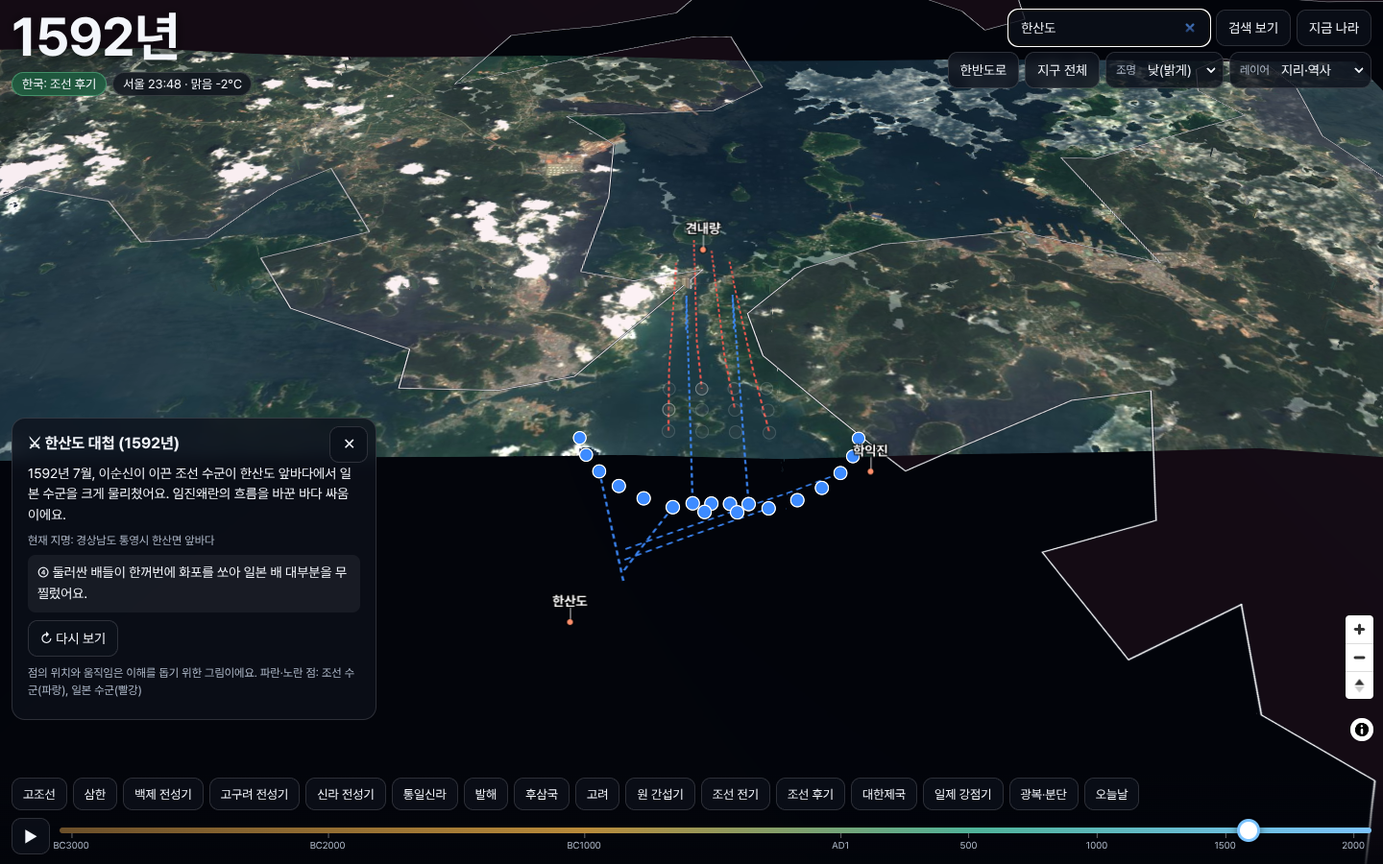
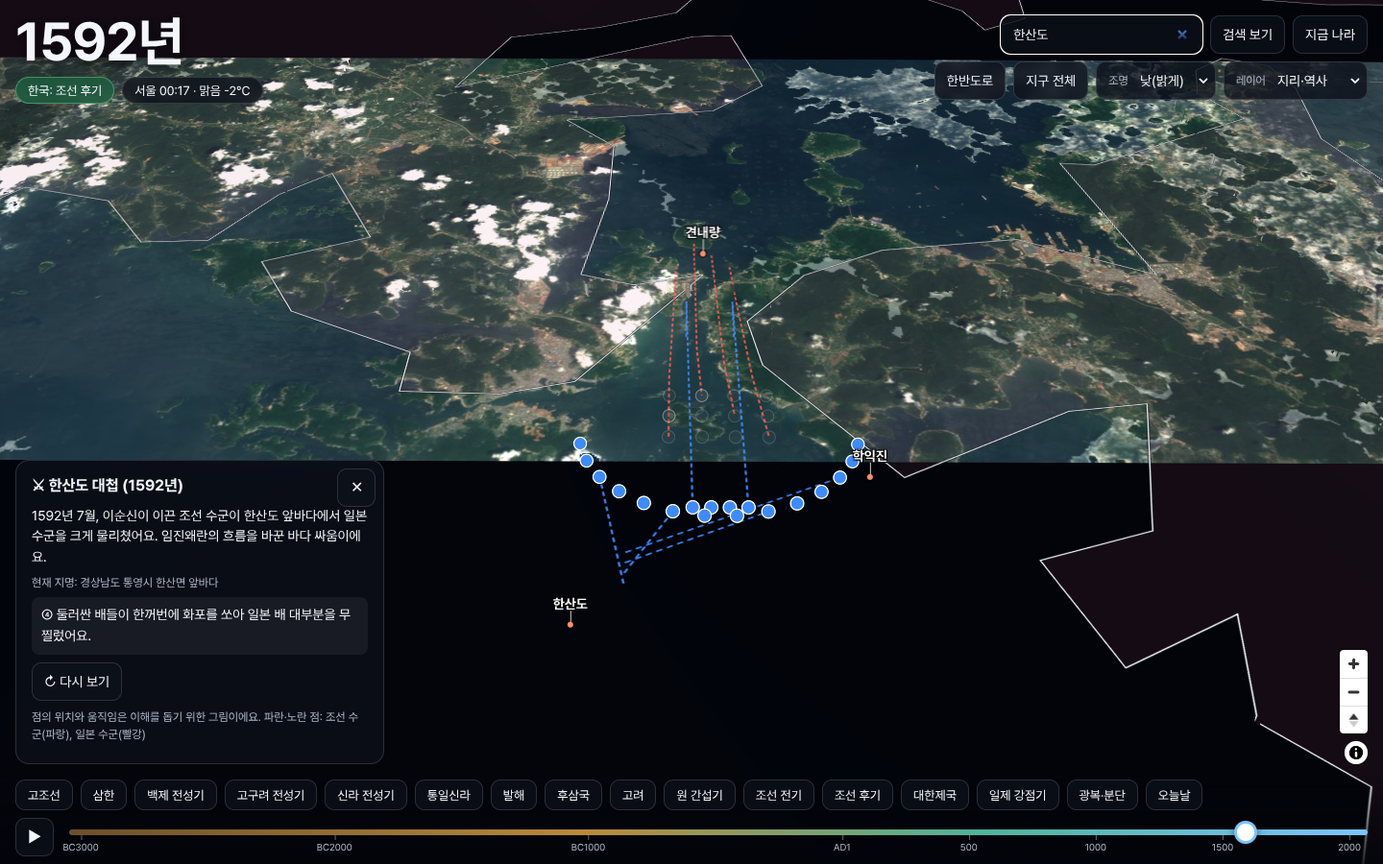
지도 위 버튼·패널을 8px 격자로 정렬하고 정렬 검사 테스트 추가
- 바깥 여백 16, 간격 8, 버튼 높이 40·시대 버튼 32·배지 28, 안전 영역 반영
- 패널·확대 버튼·검색 목록 위치를 HUD 실제 크기로 계산해 겹침 제거
- 가로 휴대폰(세로 500px 이하)도 메뉴 접기
- e2e/layout.spec.ts: 5개 화면 크기에서 겹침·격자·화면 밖 요소 검사
- 개선 전후 화면, D-021

diff --git a/src/style.css b/src/style.css
@@ -1,4 +1,5 @@
-:root { --panel: rgba(12, 16, 26, 0.78); --line: rgba(255, 255, 255, 0.14); --accent: #7cc4ff; --text: #f3f6fb; --muted: #aeb8c8; }
+:root { --g: 8px; --m: 16px; --ctl: 40px; --sl: env(safe-area-inset-left, 0px); --sr: env(safe-area-inset-right, 0px); --st: env(safe-area-inset-top, 0px); --sb: env(safe-area-inset-bottom, 0px);
+  --bottom-h: 120px; --top-h: 140px; --tr-h: 112px; --ctrl-h: 120px; --panel: rgba(12, 16, 26, 0.78); --line: rgba(255, 255, 255, 0.14); --accent: #7cc4ff; --text: #f3f6fb; --muted: #aeb8c8; }
 * { box-sizing: border-box; }
 html, body { margin: 0; height: 100%; overflow: hidden; background: #02040a; color: var(--text);
   font-family: 'Pretendard', 'Apple SD Gothic Neo', 'Noto Sans KR', 'Malgun Gothic', system-ui, sans-serif; -webkit-text-size-adjust: 100%; }
@@ -22,26 +23,27 @@ html, body { margin: 0; height: 100%; overflow: hidden; background: #02040a; col
 .lbl.tag .txt { font-size: 14px; color: #fff; }
 .lbl.tag .dot { background: #ff8f6b; }
 
-#hud { position: fixed; top: 0; left: 0; right: 0; z-index: 5; display: flex; justify-content: space-between; align-items: flex-start; padding: calc(10px + env(safe-area-inset-top)) 12px 0; pointer-events: none; gap: 10px; }
-#hud > * { pointer-events: auto; }
+#hud { position: fixed; top: 0; left: 0; right: 0; z-index: 5; display: flex; justify-content: space-between; align-items: flex-start; padding: calc(var(--m) + var(--st)) calc(var(--m) + var(--sr)) 0 calc(var(--m) + var(--sl)); pointer-events: none; gap: calc(2 * var(--g)); }
+#hud, #hud-tl, #hud-tr { pointer-events: none; }
+#hud-tl > *, #hud-tr > *, #menu-btn { pointer-events: auto; }
 #hud-tl { max-width: 46vw; }
-#year { font-size: clamp(30px, 5.2vw, 56px); font-weight: 800; letter-spacing: -1px; text-shadow: 0 2px 12px rgba(0,0,0,.7); line-height: 1.05; }
-.badges { display: flex; flex-wrap: wrap; gap: 6px; margin-top: 6px; }
-.badge { background: var(--panel); border: 1px solid var(--line); border-radius: 999px; padding: 4px 10px; font-size: 13px; backdrop-filter: blur(6px); }
+#year { font-size: clamp(32px, 5.2vw, 56px); font-weight: 800; letter-spacing: -1px; text-shadow: 0 2px 12px rgba(0,0,0,.7); line-height: 1; width: max-content; }
+.badges { display: flex; flex-wrap: wrap; gap: var(--g); margin-top: var(--g); }
+.badge { display: inline-flex; align-items: center; height: 28px; background: var(--panel); border: 1px solid var(--line); border-radius: 999px; padding: 0 12px; font-size: 13px; line-height: 1; white-space: nowrap; backdrop-filter: blur(6px); }
 .badge.era { background: rgba(28, 92, 62, .85); border-color: rgba(120, 230, 170, .4); }
-.note { margin-top: 6px; font-size: 13px; color: var(--muted); max-width: 360px; text-shadow: 0 1px 4px #000; }
-#hud-tr { display: flex; flex-direction: column; gap: 6px; align-items: flex-end; }
-.row { display: flex; gap: 6px; flex-wrap: wrap; justify-content: flex-end; }
-.btn { background: var(--panel); color: var(--text); border: 1px solid var(--line); border-radius: 10px; padding: 8px 12px; font-size: 14px; cursor: pointer; backdrop-filter: blur(6px); font-family: inherit; min-height: 38px; }
+.note { margin-top: var(--g); font-size: 13px; color: var(--muted); max-width: 360px; text-shadow: 0 1px 4px #000; }
+#hud-tr { display: flex; flex-direction: column; gap: var(--g); align-items: flex-end; }
+.row { display: flex; gap: var(--g); flex-wrap: wrap; justify-content: flex-end; }
+.btn { background: var(--panel); color: var(--text); border: 1px solid var(--line); border-radius: 10px; padding: 0 12px; font-size: 14px; line-height: 1; cursor: pointer; backdrop-filter: blur(6px); font-family: inherit; height: var(--ctl); display: inline-flex; align-items: center; justify-content: center; }
 .btn:hover { border-color: rgba(124,196,255,.6); }
 .btn[aria-pressed="true"], .btn.on { background: rgba(40, 110, 190, .85); border-color: var(--accent); }
-.btn.icon { width: 40px; padding: 0; font-size: 16px; }
-.sel { display: inline-flex; align-items: center; gap: 6px; background: var(--panel); border: 1px solid var(--line); border-radius: 10px; padding: 0 4px 0 10px; font-size: 12px; color: var(--muted); min-height: 38px; }
-.sel select { background: transparent; color: var(--text); border: 0; font-size: 14px; font-family: inherit; padding: 8px 2px; cursor: pointer; }
+.btn.icon { width: var(--ctl); padding: 0; font-size: 16px; }
+.sel { display: inline-flex; align-items: center; gap: 6px; background: var(--panel); border: 1px solid var(--line); border-radius: 10px; padding: 0 4px 0 12px; font-size: 12px; color: var(--muted); height: var(--ctl); }
+.sel select { background: transparent; color: var(--text); border: 0; font-size: 14px; font-family: inherit; padding: 0 2px; height: 100%; cursor: pointer; }
 .sel select option { background: #111827; }
 .search-wrap { position: relative; }
-#search { width: 210px; background: var(--panel); color: var(--text); border: 1px solid var(--line); border-radius: 10px; padding: 8px 12px; font-size: 14px; min-height: 38px; font-family: inherit; }
-.dropdown { position: absolute; top: 44px; right: 0; width: 300px; max-height: 50vh; overflow: auto; background: rgba(12,16,26,.95); border: 1px solid var(--line); border-radius: 10px; z-index: 20; }
+#search { width: 210px; background: var(--panel); color: var(--text); border: 1px solid var(--line); border-radius: 10px; padding: 0 12px; font-size: 14px; height: var(--ctl); font-family: inherit; display: block; }
+.dropdown { position: absolute; top: calc(var(--ctl) + var(--g)); right: 0; width: 300px; max-height: 50vh; overflow: auto; background: rgba(12,16,26,.95); border: 1px solid var(--line); border-radius: 10px; z-index: 20; }
 .dropdown button { display: block; width: 100%; text-align: left; background: none; border: 0; border-bottom: 1px solid var(--line); color: var(--text); padding: 8px 12px; cursor: pointer; font-family: inherit; }
 .dropdown button:hover, .dropdown button.active { background: rgba(124,196,255,.15); }
 .dropdown .k { font-size: 11px; color: var(--accent); margin-right: 6px; }
@@ -49,29 +51,29 @@ html, body { margin: 0; height: 100%; overflow: hidden; background: #02040a; col
 #menu-btn { display: none; }
 .mobile-only { display: none !important; }
 
-.panel { position: fixed; z-index: 6; left: 12px; bottom: 150px; width: min(380px, calc(100vw - 24px)); max-height: calc(100vh - 330px); overflow: auto; background: var(--panel); border: 1px solid var(--line);
+.panel { position: fixed; z-index: 6; left: calc(var(--m) + var(--sl)); bottom: calc(var(--bottom-h) + var(--g)); width: min(384px, calc(100vw - 2 * var(--m) - var(--sl) - var(--sr))); max-height: calc(100vh - var(--bottom-h) - var(--top-h) - 2 * var(--g)); overflow: auto; background: var(--panel); border: 1px solid var(--line);
   border-radius: 14px; padding: 14px 16px; backdrop-filter: blur(8px); font-size: 14px; line-height: 1.55; }
 .panel h3 { margin: 0 0 8px; font-size: 16px; }
 .panel p { margin: 6px 0; }
 .panel .muted { color: var(--muted); font-size: 12px; }
 .panel .ctrl { display: flex; gap: 6px; flex-wrap: wrap; margin: 8px 0; align-items: center; }
-.panel .close { position: absolute; top: 8px; right: 8px; }
+.panel .close { position: absolute; top: var(--g); right: var(--g); }
 .panel table { width: 100%; border-collapse: collapse; font-size: 13px; margin-top: 6px; }
 .panel th, .panel td { border-top: 1px solid var(--line); padding: 5px 4px; text-align: left; vertical-align: top; }
 .panel input[type=range] { width: 100%; }
 .panel svg { width: 100%; height: auto; margin-top: 6px; border-radius: 8px; background: rgba(255,255,255,.04); }
 .legend-bar { height: 12px; border-radius: 6px; margin-top: 6px; }
 .legend-scale { display: flex; justify-content: space-between; font-size: 11px; color: var(--muted); }
-.browse { left: auto; right: 12px; top: 112px; bottom: auto; max-height: calc(100vh - 290px); }
+.browse { left: auto; right: calc(var(--m) + var(--sr)); top: calc(var(--tr-h) + var(--g)); bottom: auto; width: min(352px, calc(100vw - 2 * var(--m))); max-height: calc(100vh - var(--tr-h) - var(--bottom-h) - var(--ctrl-h) - 3 * var(--g)); }
 .browse h4 { margin: 10px 0 4px; font-size: 13px; color: var(--accent); }
 .browse button { margin: 3px 3px 0 0; }
 .stage { padding: 8px 10px; background: rgba(255,255,255,.06); border-radius: 8px; min-height: 48px; }
 
-#bottom { position: fixed; z-index: 5; left: 0; right: 0; bottom: 0; padding: 0 12px calc(10px + env(safe-area-inset-bottom)); background: linear-gradient(to top, rgba(2,4,10,.85), rgba(2,4,10,0)); }
-.eras { display: flex; gap: 6px; overflow-x: auto; padding: 6px 0 8px; scrollbar-width: thin; -webkit-overflow-scrolling: touch; }
-.eras .btn { white-space: nowrap; flex: 0 0 auto; font-size: 13px; padding: 6px 11px; min-height: 34px; }
-.timeline { display: flex; align-items: center; gap: 10px; }
-.track { position: relative; flex: 1; padding-bottom: 18px; }
+#bottom { position: fixed; z-index: 5; left: 0; right: 0; bottom: 0; padding: 0 calc(var(--m) + var(--sr)) calc(var(--g) + var(--sb)) calc(var(--m) + var(--sl)); background: linear-gradient(to top, rgba(2,4,10,.85), rgba(2,4,10,0)); }
+.eras { display: flex; gap: var(--g); overflow-x: auto; padding: 0 0 var(--g); margin-top: var(--g); scrollbar-width: thin; -webkit-overflow-scrolling: touch; }
+.eras .btn { white-space: nowrap; flex: 0 0 auto; font-size: 13px; padding: 0 12px; height: 32px; }
+.timeline { display: flex; align-items: center; gap: calc(2 * var(--g)); }
+.track { position: relative; flex: 1; min-width: 0; padding-bottom: 16px; }
 #slider { width: 100%; -webkit-appearance: none; appearance: none; height: 6px; border-radius: 3px; background: linear-gradient(90deg, #6b4f2a, #b88a3a 40%, #4fb39a 70%, #7cc4ff); outline: none; margin: 10px 0 0; }
 #slider::-webkit-slider-thumb { -webkit-appearance: none; width: 24px; height: 24px; border-radius: 50%; background: #fff; border: 3px solid var(--accent); cursor: grab; box-shadow: 0 0 10px rgba(0,0,0,.6); }
 #slider::-moz-range-thumb { width: 20px; height: 20px; border-radius: 50%; background: #fff; border: 3px solid var(--accent); cursor: grab; }
@@ -81,29 +83,29 @@ html, body { margin: 0; height: 100%; overflow: hidden; background: #02040a; col
 #loading { position: fixed; inset: 0; display: flex; align-items: center; justify-content: center; z-index: 30; background: #02040a; font-size: 16px; color: var(--muted); transition: opacity .5s; }
 #loading.done { opacity: 0; pointer-events: none; }
 .maplibregl-ctrl-attrib { font-size: 10px; }
-.maplibregl-ctrl-bottom-right { bottom: 118px; }
+.maplibregl-ctrl-bottom-right { bottom: calc(var(--bottom-h) + var(--g)); right: calc(var(--m) + var(--sr)); display: flex; flex-direction: column; align-items: flex-end; gap: var(--g); }
+.maplibregl-ctrl-bottom-right .maplibregl-ctrl { margin: 0 !important; float: none; }
 
-@media (max-width: 760px) {
-  #menu-btn { display: block; }
+@media (max-width: 760px), (max-height: 500px) {
+  #menu-btn { display: inline-flex; }
   .mobile-only { display: inline-flex !important; }
   .panel.geo { display: none; }
-  #hud-tr { display: none; position: fixed; top: calc(60px + env(safe-area-inset-top)); right: 10px; left: 10px; background: rgba(8,11,18,.92); border: 1px solid var(--line); border-radius: 14px; padding: 10px; align-items: stretch; z-index: 10; }
+  #hud-tr { display: none; position: fixed; top: calc(var(--m) + var(--ctl) + var(--g) + var(--st)); right: calc(var(--m) + var(--sr)); left: auto; width: min(420px, calc(100vw - 2 * var(--m) - var(--sl) - var(--sr))); max-height: calc(100vh - var(--m) * 2 - var(--ctl) - var(--g)); overflow: auto; background: rgba(8,11,18,.94); border: 1px solid var(--line); border-radius: 14px; padding: var(--m); align-items: stretch; z-index: 10; pointer-events: auto; }
   #hud-tr.open { display: flex; }
   #hud-tr .row { justify-content: flex-start; }
   #search, .search-wrap { width: 100%; }
   .search-wrap { flex: 1 1 100%; }
   .dropdown { left: 0; right: 0; width: auto; }
-  #hud-tl { max-width: calc(100vw - 70px); }
+  #hud-tl { max-width: calc(100vw - 2 * var(--m) - var(--ctl) - var(--m)); }
   .note { display: none; }
-  .panel { left: 8px; right: 8px; width: auto; bottom: 128px; max-height: 38vh; font-size: 13px; }
-  .browse { top: auto; }
+  .panel { right: calc(var(--m) + var(--sr)); width: auto; font-size: 13px; }
+  .browse { top: auto; left: calc(var(--m) + var(--sl)); bottom: calc(var(--bottom-h) + var(--g)); width: auto; max-height: calc(100vh - var(--bottom-h) - var(--top-h) - 2 * var(--g)); }
   .badge { font-size: 12px; }
 }
 @media (max-height: 500px) {
-  #year { font-size: 28px; }
+  #year { font-size: 32px; }
   .note { display: none; }
-  .panel { bottom: 112px; max-height: calc(100vh - 190px); }
-  .eras { padding: 2px 0 4px; }
+  .eras { margin-top: 0; }
 }
 .battle-marker { width: 34px; height: 34px; border-radius: 50%; border: 2px solid #ffd36b; background: rgba(120, 20, 20, .85); color: #fff; font-size: 17px; cursor: pointer; box-shadow: 0 0 12px rgba(255, 120, 60, .7); padding: 0; }
 .battle-marker:hover { transform: scale(1.1); }

diff --git a/e2e/layout-audit.ts b/e2e/layout-audit.ts
@@ -1,0 +1,94 @@
+import type { Page } from '@playwright/test';
+
+// Overlay layout rules: 8px grid, 16px outer margin, 8px gaps, 40px controls in a row.
+export const GRID = 8;
+export const MARGIN = 16;
+
+export interface Box { x: number; y: number; w: number; h: number }
+
+/** Collects layout problems of the HUD overlays in the current page state. */
+export async function auditLayout(page: Page): Promise<string[]> {
+  return page.evaluate(({ GRID, MARGIN }) => {
+    const issues: string[] = [];
+    const W = window.innerWidth, H = window.innerHeight;
+    const vis = (el: Element | null): el is HTMLElement => {
+      if (!el) return false;
+      const s = getComputedStyle(el as HTMLElement);
+      if (s.display === 'none' || s.visibility === 'hidden' || (el as HTMLElement).hidden) return false;
+      const r = el.getBoundingClientRect();
+      return r.width > 0 && r.height > 0;
+    };
+    const box = (el: Element) => { const r = el.getBoundingClientRect(); return { x: r.left, y: r.top, r: r.right, b: r.bottom, w: r.width, h: r.height }; };
+    const q = (s: string) => document.querySelector(s);
+    const near = (a: number, b: number, tol = 0.75) => Math.abs(a - b) <= tol;
+    const name = (el: Element) => el.id ? `#${el.id}` : `.${[...el.classList].join('.')}`;
+
+    // 1) every visible control stays inside the viewport with at least half a grid step of air
+    const controls = [...document.querySelectorAll('#hud .btn, #hud .sel, #search, .badge, #year, #panel, #browse, #play-btn, #slider, .maplibregl-ctrl-group, .maplibregl-ctrl-attrib')];
+    for (const el of controls) {
+      if (!vis(el)) continue;
+      const b = box(el);
+      if (b.x < GRID / 2 - 0.5 || b.y < GRID / 2 - 0.5 || b.r > W - GRID / 2 + 0.5 || b.b > H - GRID / 2 + 0.5) issues.push(`outside viewport: ${name(el)} ${Math.round(b.x)},${Math.round(b.y)}-${Math.round(b.r)},${Math.round(b.b)}`);
+    }
+    // tick labels must not be clipped by the viewport
+    for (const t of document.querySelectorAll('#ticks span')) {
+      if (!vis(t)) continue;
+      const b = box(t);
+      if (b.x < 0 || b.r > W) issues.push(`tick clipped: ${t.textContent}`);
+    }
+    // 2) outer margins on the grid
+    const edge = (sel: string, side: 'l' | 'r' | 't', want: number) => {
+      const el = q(sel); if (!vis(el)) return;
+      const b = box(el); const got = side === 'l' ? b.x : side === 'r' ? W - b.r : b.y;
+      if (!near(got, want)) issues.push(`margin ${side} of ${sel}: ${got.toFixed(1)} (want ${want})`);
+    };
+    edge('#hud-tl', 'l', MARGIN); edge('#hud-tl', 't', MARGIN);
+    edge('#menu-btn', 'r', MARGIN); edge('#menu-btn', 't', MARGIN);
+    if (getComputedStyle(q('#menu-btn')!).display === 'none') { edge('#hud-tr', 'r', MARGIN); edge('#hud-tr', 't', MARGIN); }
+    edge('#play-btn', 'l', MARGIN); edge('.track', 'r', MARGIN);
+    edge('#eras', 'l', MARGIN);
+    edge('#panel', 'l', MARGIN);
+    edge('.maplibregl-ctrl-bottom-right .maplibregl-ctrl-group', 'r', MARGIN);
+    // 3) rows: equal heights and 8px gaps
+    const rowCheck = (label: string, items: HTMLElement[], wantH?: number) => {
+      const v = items.filter(vis);
+      for (let i = 0; i < v.length; i++) {
+        const b = box(v[i]);
+        if (wantH && !near(b.h, wantH)) issues.push(`${label}: ${name(v[i])} height ${b.h.toFixed(1)} (want ${wantH})`);
+        if (i > 0) {
+          const p = box(v[i - 1]);
+          if (near(p.y, b.y, 2)) { if (!near(b.x - p.r, GRID)) issues.push(`${label}: gap ${name(v[i - 1])}→${name(v[i])} ${(b.x - p.r).toFixed(1)} (want ${GRID})`); }
+          if (!near(p.h, b.h)) issues.push(`${label}: height mismatch ${name(v[i - 1])} ${p.h.toFixed(1)} vs ${name(v[i])} ${b.h.toFixed(1)}`);
+        }
+      }
+    };
+    document.querySelectorAll<HTMLElement>('#hud-tr .row').forEach((row, i) => rowCheck(`hud row ${i + 1}`, [...row.children].map((c) => (c.classList.contains('search-wrap') ? c.querySelector('#search') as HTMLElement : c as HTMLElement)), 40));
+    rowCheck('badges', [...document.querySelectorAll<HTMLElement>('.badges .badge')]);
+    rowCheck('eras', [...document.querySelectorAll<HTMLElement>('#eras .btn')].slice(0, 6), 32);
+    const rows = [...document.querySelectorAll('#hud-tr .row')].filter(vis);
+    for (let i = 1; i < rows.length; i++) { const g = box(rows[i]).y - box(rows[i - 1]).b; if (!near(g, GRID)) issues.push(`hud row gap ${g.toFixed(1)} (want ${GRID})`); }
+    // 4) blocks must not overlap and keep at least one grid step apart
+    const blocks: Array<[string, Element | null]> = [
+      ['hud-tl', q('#hud-tl')], ['hud-tr', getComputedStyle(q('#menu-btn')!).display === 'none' ? q('#hud-tr') : q('#menu-btn')],
+      ['panel', q('#panel')], ['browse', q('#browse')], ['eras', q('#eras')], ['timeline', q('.timeline')],
+      ['zoom', q('.maplibregl-ctrl-bottom-right .maplibregl-ctrl-group')], ['credits', q('.maplibregl-ctrl-attrib')],
+    ];
+    const shown = blocks.filter(([, el]) => vis(el)) as Array<[string, HTMLElement]>;
+    for (let i = 0; i < shown.length; i++) for (let j = i + 1; j < shown.length; j++) {
+      const a = box(shown[i][1]), b = box(shown[j][1]);
+      const dx = Math.max(b.x - a.r, a.x - b.r), dy = Math.max(b.y - a.b, a.y - b.b);
+      const gap = Math.max(dx, dy);
+      if (gap < 0) issues.push(`overlap: ${shown[i][0]} × ${shown[j][0]}`);
+      else if (gap < GRID - 0.75 && !(shown[i][0] === 'eras' && shown[j][0] === 'timeline') && !(shown[i][0] === 'zoom' && shown[j][0] === 'credits')) issues.push(`too close (${gap.toFixed(1)}px): ${shown[i][0]} × ${shown[j][0]}`);
+    }
+    return issues;
+  }, { GRID, MARGIN });
+}
+
+export const VIEWPORTS = [
+  { name: 'desktop-1440', width: 1440, height: 900, touch: false },
+  { name: 'laptop-1280', width: 1280, height: 800, touch: false },
+  { name: 'tablet-1024', width: 1024, height: 768, touch: true },
+  { name: 'phone-390', width: 390, height: 844, touch: true },
+  { name: 'phone-844', width: 844, height: 390, touch: true },
+];

diff --git a/src/main.ts b/src/main.ts
@@ -18,7 +18,7 @@ const $ = <T extends HTMLElement = HTMLElement>(id: string): T => document.getEl
 const NOW = currentYear();
 const KOREA_CAM: Camera = { center: [127.6, 37.4], zoom: 5.2, pitch: 0, bearing: 0 };
 // Default history view: East Asia seen from nearly straight above.
-const HISTORY_CAM: Camera = { center: [120, 37], zoom: window.innerWidth < 760 ? 2.7 : 3.4, pitch: 0, bearing: 0 };
+const HISTORY_CAM: Camera = { center: [120, 37], zoom: Math.min(window.innerWidth, window.innerHeight) < 600 ? 2.7 : 3.4, pitch: 0, bearing: 0 };
 const WORLD_CAM: Camera = { center: [115, 25], zoom: 1.6, pitch: 0, bearing: 0 };
 
 const params = new URLSearchParams(location.search);
@@ -513,6 +513,28 @@ async function boot(): Promise<void> {
 }
 
 // Expose a small handle for automated tests.
+// ---------- overlay layout ----------
+// Panels and map controls are positioned from the live size of the HUD blocks (CSS variables),
+// so nothing overlaps when text wraps or the viewport changes.
+function updateLayoutVars(): void {
+  const root = document.documentElement.style;
+  const vis = (el: HTMLElement | null): boolean => !!el && el.offsetParent !== null && getComputedStyle(el).position !== 'fixed';
+  const bottom = $('bottom').getBoundingClientRect();
+  root.setProperty('--bottom-h', `${Math.ceil(window.innerHeight - bottom.top)}px`);
+  const tl = $('hud-tl').getBoundingClientRect();
+  const trEl = $('hud-tr');
+  const tr = vis(trEl) ? trEl.getBoundingClientRect() : $('menu-btn').getBoundingClientRect();
+  root.setProperty('--tr-h', `${Math.ceil(tr.bottom)}px`);
+  root.setProperty('--top-h', `${Math.ceil(Math.max(tl.bottom, vis(trEl) && tr.left < 16 + 400 + 8 ? tr.bottom : 0))}px`);
+  const ctrl = document.querySelector<HTMLElement>('.maplibregl-ctrl-bottom-right');
+  root.setProperty('--ctrl-h', `${Math.ceil(ctrl?.offsetHeight ?? 0)}px`);
+}
+const layoutObserver = new ResizeObserver(() => updateLayoutVars());
+for (const id of ['bottom', 'hud-tl', 'hud-tr', 'menu-btn']) layoutObserver.observe($(id));
+window.addEventListener('resize', updateLayoutVars);
+map.once('load', () => { const c = document.querySelector('.maplibregl-ctrl-bottom-right'); if (c) layoutObserver.observe(c); updateLayoutVars(); });
+updateLayoutVars();
+
 (window as any).__he = { store, map, particles, histLabels, data };
 boot().catch((e) => {
   console.error(e);

diff --git a/e2e/layout.spec.ts b/e2e/layout.spec.ts
@@ -1,0 +1,32 @@
+import { test, expect, chromium } from '@playwright/test';
+import { auditLayout, VIEWPORTS } from './layout-audit';
+
+// Runs once (desktop project) and drives its own contexts for every viewport.
+for (const vp of VIEWPORTS) {
+  test(`overlay layout on grid: ${vp.name}`, async ({ browser, baseURL }) => {
+    const ctx = await browser.newContext({ viewport: { width: vp.width, height: vp.height }, hasTouch: vp.touch, isMobile: vp.touch && vp.width < 900, deviceScaleFactor: 1 });
+    const page = await ctx.newPage();
+    await page.goto(`${baseURL}/?year=475`);
+    await page.waitForSelector('body[data-ready="1"]', { state: 'attached', timeout: 90_000 });
+    await page.waitForTimeout(2500);
+    if (process.env.OVERLAY_SHOT) await page.screenshot({ path: `${process.env.OVERLAY_SHOT}-${vp.name}.png`, timeout: 90_000 });
+    const issues = await auditLayout(page);
+    // the browse panel must also fit next to the other overlays
+    await page.evaluate(() => (document.getElementById('menu-btn') as HTMLElement).offsetParent === null && document.getElementById('browse-btn')!.click());
+    await page.waitForTimeout(300);
+    const issuesBrowse = (await auditLayout(page)).map((s) => `[browse open] ${s}`);
+    // phones: the collapsed menu must open fully inside the screen with aligned rows
+    let issuesMenu: string[] = [];
+    if (await page.locator('#menu-btn').isVisible()) {
+      await page.locator('#menu-btn').click();
+      await page.waitForTimeout(300);
+      if (process.env.OVERLAY_SHOT) await page.screenshot({ path: `${process.env.OVERLAY_SHOT}-${vp.name}-menu.png`, timeout: 90_000 });
+      issuesMenu = (await auditLayout(page)).filter((s) => /outside|row|clipped/.test(s)).map((s) => `[menu open] ${s}`);
+    }
+    const all = [...issues, ...issuesBrowse, ...issuesMenu];
+    if (all.length) console.log(`${vp.name}:\n  ${all.join('\n  ')}`);
+    await ctx.close();
+    expect(all).toEqual([]);
+  });
+}
+void chromium;

diff --git a/docs/PROGRESS.md b/docs/PROGRESS.md
@@ -17,3 +17,7 @@
 - 11-20 22:29 지도 품질 개선 전 화면 기록(475·700·1450·2026, 동아시아) docs/screenshots/progress/2229-map-quality-before-475.png, 2229-map-quality-before-700.png, 2229-map-quality-before-1450.png, 2229-map-quality-before-2026.png
 - 11-20 22:42 지도 품질 개선: 10m 해안선 자르기, 한반도 경계 다시 그림(강·산맥 기준), Blue Marble+음영 기복, 진한 색면·이중 국경선·파란 강·도시/강 라벨, 위에서 보는 기본 카메라 docs/screenshots/progress/2242-map-quality-after-475.png, 2242-map-quality-after-700.png, 2242-map-quality-after-1450.png, 2242-map-quality-after-2026.png, 2242-map-quality-after-korea-475.png
 - 11-20 22:55 개선 후 테스트 통과: Vitest 32/32, Playwright 8/8(데스크톱 6, 모바일 2)
+- 11-20 22:59 Vercel 운영 배포(지도 품질 개선판) 완료, https://historyearth.vercel.app 200 확인. GitHub 저장소 만들기는 커넥터 권한 부족(403)으로 보류
+- 11-20 23:07 지도 위 버튼·패널 정렬 점검(개선 전, 5개 화면 크기): 여백 12/10px 섞임, 버튼 높이 38/34, 간격 6px, 검색 목록이 확대 버튼과 겹침, 태블릿에서 오른쪽 버튼 줄과 설명 패널 겹침 docs/screenshots/progress/2307-overlay-before-desktop-1440.png, docs/screenshots/progress/2307-overlay-before-laptop-1280.png, docs/screenshots/progress/2307-overlay-before-tablet-1024.png, docs/screenshots/progress/2307-overlay-before-phone-390.png, docs/screenshots/progress/2307-overlay-before-phone-844.png
+- 11-20 23:12 8px 격자로 정렬(바깥 여백 16, 간격 8, 버튼 높이 40·시대 버튼 32·배지 28, 안전 영역 반영, 가로 휴대폰도 메뉴 접기, 패널·확대 버튼 위치를 실제 크기로 계산), 정렬 검사 테스트 5개 통과 docs/screenshots/progress/2312-overlay-after-desktop-1440.png, docs/screenshots/progress/2312-overlay-after-laptop-1280.png, docs/screenshots/progress/2312-overlay-after-tablet-1024.png, docs/screenshots/progress/2312-overlay-after-phone-390.png, docs/screenshots/progress/2312-overlay-after-phone-844.png, docs/screenshots/progress/2312-overlay-after-phone-390-menu.png, docs/screenshots/progress/2312-overlay-after-phone-844-menu.png
+- 11-20 23:23 테스트 통과: Vitest 32/32, Playwright 13/13(데스크톱 6, 정렬 검사 5, 모바일 2)

diff --git a/docs/DECISIONS.md b/docs/DECISIONS.md
@@ -22,3 +22,4 @@
 | D-018 | 세계 시점 파일에서 그 시기 한반도 자체 영역과 겹치는 부분을 미리 빼 둔다(빌드 시) | 두 층이 겹쳐 색이 섞이던 문제를 없앤다. mapshaper -clean으로 세계 다각형끼리의 겹침도 정리한다. |
 | D-019 | 역사 모드 기본 카메라와 시대 버튼 카메라를 기울기 0(위에서 내려다봄)으로 바꾼다 | 지도가 읽히는 것이 먼저이고, 3D 기울이기는 드래그로 언제든 가능하다. 전투·기후 화면은 기존 기울기를 유지한다. |
 | D-020 | 원본 시점의 이름 오류 3건(700년 '수'→당, 1400년 '원'→명·북원, 1450년 가마쿠라→무로마치)을 빌드 단계에서 고친다 | 수업 화면에서 틀린 왕조 이름이 보이면 안 된다. 모양은 원본 그대로 둔다. |
+| D-021 | 지도 위 요소는 8px 격자(바깥 여백 16, 요소 간격 8, 조작 버튼 높이 40, 시대 버튼 32, 배지 28)를 따르고, 패널·확대 버튼 위치는 HUD 실제 크기(CSS 변수)로 계산한다. 세로 500px 이하 화면(가로 휴대폰)도 메뉴를 접는다 | 화면 크기마다 겹침·어긋남이 생기던 문제를 규칙으로 막는다. `e2e/layout.spec.ts`가 5개 화면 크기에서 겹침·격자 밖 가장자리·화면 밖 요소를 재서 실패시킨다. |
